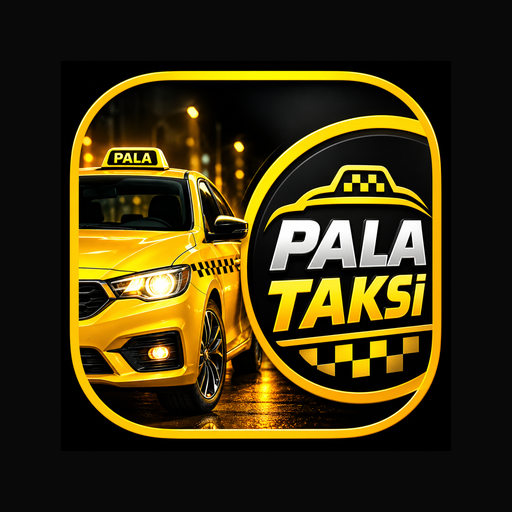
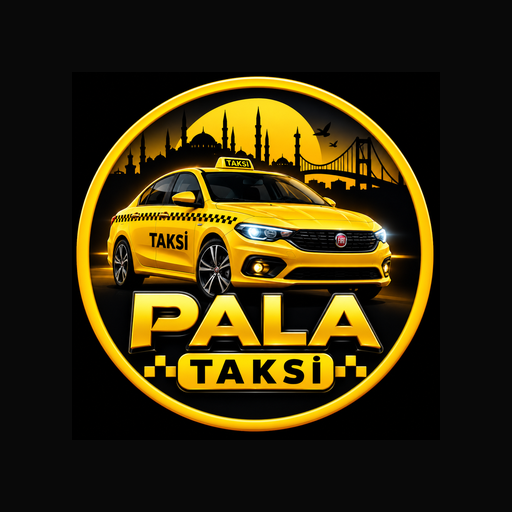
Add files via upload

diff --git a/index.html b/index.html
@@ -1,4 +1,4 @@
-<!doctype html><html lang="tr"><head><meta charset="utf-8"><meta name="viewport" content="width=device-width,initial-scale=1"><meta name="theme-color" content="#151515"><link rel="manifest" href="manifest.webmanifest"><title>PALA TAKSİ V5</title><style>
+<!doctype html><html lang="tr"><head><meta charset="utf-8"><meta name="viewport" content="width=device-width,initial-scale=1"><meta name="theme-color" content="#151515"><link rel="manifest" href="manifest.webmanifest"><title>PALA TAKSİ V4</title><style>
 :root{color-scheme:dark;--gold:#f5c842;--bg:#090b10;--card:#171b23;--muted:#a0a8b8;--line:#303744}
 *{box-sizing:border-box}body{font-family:system-ui,-apple-system,sans-serif;background:radial-gradient(circle at top right,#353019 0%,#0b0d13 40%,#090b10 100%);color:#f8f8f9;margin:0;padding:18px 15px 90px;max-width:700px;margin:auto;line-height:1.45}
 h1{color:var(--gold);font-size:25px;letter-spacing:.4px;margin:7px 0}h2{font-size:21px;margin:4px 0 16px}h3{font-size:16px}
@@ -32,7 +32,7 @@ nav button{box-shadow:0 4px 0 #9c7a10;letter-spacing:.1px}
 .monthly-table td:last-child{background:#28240f;color:#ffdb52}
 .monthly-table tbody tr:nth-child(even){background:#1d1d1d}
 .danger{background:#382021;color:#ffb0b0;border:1px solid #8b4545}
-.filter-panel{background:#1d211e;border:1px solid #625321;border-radius:16px;padding:14px;margin:14px 0}.filter-panel h3{margin-top:0}.filter-item{padding:10px 0;border-bottom:1px solid #42423a;display:flex;justify-content:space-between;gap:12px}.filter-item small{display:block;color:#aeb5bd}.filter-item b{white-space:nowrap;color:#f5c842}.filter-total{font-size:22px;font-weight:800;color:#f5c842;margin:10px 0}</style><style>.mainnav{grid-template-columns:repeat(3,minmax(0,1fr));gap:7px}.mainnav button{font-size:12px;padding:12px 5px}.quick{display:grid;grid-template-columns:1fr 1fr;gap:10px}.quick button:last-child{background:#28251b;color:#ffcf24;border:1px solid #806820;box-shadow:none}#home[hidden]{display:none}#lastTrips article{font-size:13px;line-height:1.5}.tile .value{font-size:clamp(16px,4.3vw,22px)}@media(max-width:380px){.mainnav{grid-template-columns:repeat(2,1fr)}} </style><style>#notes article,#homeReminders article{background:#1c1e23;border:1px solid #57471c;border-radius:12px;padding:12px;margin:8px 0}#notes article button{width:auto;margin:7px 5px 0 0;padding:9px;font-size:12px}#notes textarea{width:100%;box-sizing:border-box;background:#111;color:white;border:1px solid #555;border-radius:8px;padding:12px}.mainnav{grid-template-columns:repeat(3,minmax(0,1fr))}</style><style id="pin-style">body.pin-locked{overflow:hidden}#pinGate{position:fixed;inset:0;z-index:99999;background:radial-gradient(circle at top,#3d3210,#08090c 65%);display:flex;align-items:center;justify-content:center;padding:22px}#pinGate[hidden]{display:none}#pinPanel{width:min(100%,350px);text-align:center}#pinPanel h2{color:#f5c842;font-size:28px;margin:12px 0}#pinPanel p{color:#cbd0d9}#pinDots{display:flex;gap:14px;justify-content:center;margin:26px}#pinDots i{width:17px;height:17px;border:2px solid #f5c842;border-radius:50%}#pinDots i.filled{background:#f5c842}#pinPad{display:grid;grid-template-columns:repeat(3,1fr);gap:10px}#pinPad button{height:65px;font-size:24px;background:#23252b;color:#fff}#pinPad button:last-child{color:#f5c842}#pinError{min-height:25px;color:#ff9292!important}#pinChange{margin-top:18px;background:#2b2d34;color:#f5c842}</style><style>.brand img{object-fit:contain;background:#090b10;padding:4px;box-sizing:border-box}#school .school-check{display:flex;align-items:center;gap:12px;background:#1c1e23;border:1px solid #665322;border-radius:12px;padding:14px;margin:10px 0}#school .school-check input{width:23px;height:23px;flex:none}#school .school-check span{flex:1}#school .school-check b{color:#f5c842}#school .school-check input:disabled{opacity:.55}</style></head><body class="pin-locked"><div id="pinGate"><div id="pinPanel"><div style="font-size:64px">🚕</div><h2>PALA TAKSİ</h2><p id="pinPrompt">4 haneli giriş şifrenizi oluşturun</p><div id="pinDots"><i></i><i></i><i></i><i></i></div><p id="pinError"></p><div id="pinPad"></div><button id="pinChange" type="button" hidden>Şifreyi Değiştir</button></div></div><div class="brand"><img src="icon.png" alt="PALA TAKSİ logosu"><div><h1>PALA TAKSİ <small>V1</small></h1><small>Günlük Kasa ve Kazanç Takibi</small></div></div><nav class="mainnav"><button onclick="show('home')">⌂ Ana Sayfa</button><button onclick="show('trip')">+ Yeni Sefer</button><button onclick="show('cost')">− Gider</button><button onclick="show('history')">Geçmiş</button><button onclick="show('report')">Raporlar</button><button onclick="show('debt')">💰 Alacaklar</button><button onclick="show('notes')">📝 Notlar</button><button onclick="show('school')">🏫 Okul Servisi</button></nav><div id="home"><section class="hero"><small>Toplam Kasa Bakiyesi</small><div class="value" id="balance"></div><small>Önceki günlerden devreden dahil</small></section><div class="tiles"><div class="tile"><small>Bugünkü Gelir</small><div class="value" id="income"></div></div><div class="tile"><small>Bugünkü Gider</small><div class="value" id="expense"></div></div><div class="tile"><small>Bugünkü Net</small><div class="value" id="net"></div></div><div class="tile"><small>Bugünkü Sefer Sayısı</small><div class="value" id="count"></div></div></div><section><h2>Bu Ayın Özeti</h2><div class="tiles"><div class="tile"><small>Aylık Gelir</small><div class="value" id="monthIncome"></div></div><div class="tile"><small>Aylık Gider</small><div class="value" id="monthExpense"></div></div><div class="tile"><small>Aylık Net</small><div class="value" id="monthNet"></div></div><div class="tile"><small>Aylık Sefer</small><div class="value" id="monthCount"></div></div></div></section><div class="quick"><button onclick="show('debt')">💰 Alacaklar / Veresiye</button><button onclick="show('trip')">+ Yeni Sefer Ekle</button><button onclick="show('cost')">+ Yeni Gider Ekle</button></div><section><h2>🔔 Yaklaşan Hatırlatmalar</h2><div id="homeReminders"></div><button onclick="show('notes')">Notlara Git</button></section><section><h2>Son 5 Seferim</h2><div id="lastTrips"></div></section></div><p id="notice"></p><section id="trip" hidden><h2>Yeni İş</h2><label>Yolculuk tarihi ve saati<input id="tripDate" type="datetime-local" required></label><form id="tripForm"><label>Alış noktası<input id="from" required></label><label>Varış noktası<input id="to" required></label><label>Kazanılan tutar (TL)<input id="fare" type="number" min="0.01" step="0.01" required></label><button>İşi Kaydet</button></form></section><section id="cost" hidden><h2>Gider Ekle</h2><label>Gider tarihi ve saati<input id="costDate" type="datetime-local" required></label><form id="costForm"><label>Gider açıklaması<input id="description" required></label><label>Gider tutarı (TL)<input id="costAmount" type="number" min="0.01" step="0.01" required></label><button>Gideri Kaydet</button></form></section><section id="debt" hidden><h2>💰 Alacaklar / Veresiye</h2><div class="tiles"><div class="tile"><small>Toplam Kalan Alacak</small><div class="value" id="debtTotal"></div></div><div class="tile"><small>Toplam Tahsilat</small><div class="value" id="debtPaid"></div></div></div><h3>+ Yeni Veresiye</h3><form id="debtForm"><label>Müşteri adı<input id="debtName" required></label><label>Telefon (isteğe bağlı)<input id="debtPhone" type="tel"></label><label>Güzergâh / açıklama<input id="debtRoute" required></label><label>Borç tutarı (TL)<input id="debtAmount" type="number" min="0.01" step="0.01" required></label><label>İş tarihi ve saati<input id="debtDate" type="datetime-local" required></label><button>Veresiyeyi Kaydet</button></form><h3>Müşteriler ve Ödemeler</h3><div id="debtCustomers"></div><small>Veresiye yazıldığında kasaya eklenmez. Tahsilat yapıldığı tarihte gelir kaydedilir. Tahsilatları değiştirmek için önce ilgili tahsilatı iptal edin.</small></section><section id="notes" hidden><h2>📝 Notlar ve Hatırlatmalar</h2><p>Notlarınız bu telefonda saklanır. Uygulama açıkken zamanı gelen hatırlatmalar bildirim olarak gösterilebilir.</p><button type="button" onclick="enableNotifications()">🔔 Bildirim İzni Ver</button><form id="noteForm"><input type="hidden" id="noteEdit"><label>Not başlığı<input id="noteTitle" required maxlength="120" placeholder="Örn. Araç muayenesi"></label><label>Açıklama<textarea id="noteText" rows="3" placeholder="Notun ayrıntıları"></textarea></label><label>Hatırlatma tarihi ve saati (isteğe bağlı)<input id="noteDate" type="datetime-local"></label><button type="submit">Notu Kaydet</button><button type="button" onclick="resetNoteForm()">Temizle / Yeni Not</button></form><h3>Notlarım</h3><div id="notesList"></div></section><section id="school" hidden><h2>🏫 Okul Servisi Takibi</h2><p>Hafta içi sabah ve akşam ayrı işaretlenir. Her servis 850 TL'dir. Kazanç yalnızca Kasaya Aktar butonuyla taksi kasasına eklenir.</p><label>Servis tarihi<input id="schoolDate" type="date" onchange="renderSchool()"></label><label class="school-check"><input id="schoolMorning" type="checkbox" onchange="previewSchool()"><span>🌅 Sabah servisi</span><b>850 TL</b></label><label class="school-check"><input id="schoolEvening" type="checkbox" onchange="previewSchool()"><span>🌇 Akşam servisi</span><b>850 TL</b></label><div id="schoolDaySummary"></div><button type="button" id="schoolSave" onclick="saveSchoolDay()">💾 Servisi Kaydet</button><button type="button" onclick="toggleSchoolHistory()">📋 Geçmişi Gör</button><div id="schoolHistory" hidden></div><hr><label>Aktarılacak ay<input id="schoolMonth" type="month" onchange="renderSchool()"></label><div id="schoolMonthSummary"></div><button id="schoolTransfer" type="button" onclick="transferSchool()">💰 Okul Gelirini Kasaya Aktar</button><button id="schoolUndo" type="button" class="danger" onclick="undoSchoolTransfer()" hidden>Aktarımı İptal Et</button><small>Ay sonu aktarımı tek gelir kaydı oluşturur. Aktarılan ayın servisleri, aktarım iptal edilmeden değiştirilemez.</small></section><section id="history" hidden><h2>İşlem Geçmişi</h2><label>Güne göre filtrele (boşsa tüm kayıtlar)<input id="historyDate" type="date" onchange="render()"></label><div id="records"></div></section><section id="report" hidden><h2>Raporlar</h2><div class="controls"><label>Dönem<select id="reportPeriod" onchange="updateReportControls();render()"><option value="day">Günlük</option><option value="week">Haftalık</option><option value="month" selected>Aylık</option><option value="year">Yıllık</option></select></label><label>Rapor tarihi<input type="date" id="reportDate" onchange="render()"></label></div><section class="filter-panel"><h3>🔎 Gelir / Gider Filtreleri</h3><div class="controls"><label>İşlem türü<select id="detailType" onchange="render()"><option value="all">Tüm işlemler</option><option value="income">Gelirler</option><option value="expense">Giderler</option></select></label><label>Gider grubu<select id="detailGroup" onchange="render()"><option value="all">Tüm giderler</option><option value="fuel">⛽ Yakıt (mazot / motorin)</option><option value="other">Diğer giderler</option></select></label></div><label>Açıklama veya güzergâh ara<input id="detailSearch" placeholder="Örn. Kaynaşlı, mazot, bakım" oninput="render()"></label><div id="detailResults"></div></section><div id="reports"></div><h3>Veri Yönetimi</h3><button class="danger" onclick="clearRecords()">Tüm Deneme Kayıtlarını Sil</button><h3>Veri Yedeği</h3><button onclick="backup()">Yedek İndir (JSON)</button><p><label>Yedekten geri yükle<input type="file" id="restore" accept="application/json,.json"></label></p><small>Geri yükleme mevcut kayıtları değiştirir. Yedek dosyanızı güvenli yerde saklayın.</small></section><script>
+.filter-panel{background:#1d211e;border:1px solid #625321;border-radius:16px;padding:14px;margin:14px 0}.filter-panel h3{margin-top:0}.filter-item{padding:10px 0;border-bottom:1px solid #42423a;display:flex;justify-content:space-between;gap:12px}.filter-item small{display:block;color:#aeb5bd}.filter-item b{white-space:nowrap;color:#f5c842}.filter-total{font-size:22px;font-weight:800;color:#f5c842;margin:10px 0}</style><style>.mainnav{grid-template-columns:repeat(3,minmax(0,1fr));gap:7px}.mainnav button{font-size:12px;padding:12px 5px}.quick{display:grid;grid-template-columns:1fr 1fr;gap:10px}.quick button:last-child{background:#28251b;color:#ffcf24;border:1px solid #806820;box-shadow:none}#home[hidden]{display:none}#lastTrips article{font-size:13px;line-height:1.5}.tile .value{font-size:clamp(16px,4.3vw,22px)}@media(max-width:380px){.mainnav{grid-template-columns:repeat(2,1fr)}} </style><style>#notes article,#homeReminders article{background:#1c1e23;border:1px solid #57471c;border-radius:12px;padding:12px;margin:8px 0}#notes article button{width:auto;margin:7px 5px 0 0;padding:9px;font-size:12px}#notes textarea{width:100%;box-sizing:border-box;background:#111;color:white;border:1px solid #555;border-radius:8px;padding:12px}.mainnav{grid-template-columns:repeat(3,minmax(0,1fr))}</style><style id="pin-style">body.pin-locked{overflow:hidden}#pinGate{position:fixed;inset:0;z-index:99999;background:radial-gradient(circle at top,#3d3210,#08090c 65%);display:flex;align-items:center;justify-content:center;padding:22px}#pinGate[hidden]{display:none}#pinPanel{width:min(100%,350px);text-align:center}#pinPanel h2{color:#f5c842;font-size:28px;margin:12px 0}#pinPanel p{color:#cbd0d9}#pinDots{display:flex;gap:14px;justify-content:center;margin:26px}#pinDots i{width:17px;height:17px;border:2px solid #f5c842;border-radius:50%}#pinDots i.filled{background:#f5c842}#pinPad{display:grid;grid-template-columns:repeat(3,1fr);gap:10px}#pinPad button{height:65px;font-size:24px;background:#23252b;color:#fff}#pinPad button:last-child{color:#f5c842}#pinError{min-height:25px;color:#ff9292!important}#pinChange{margin-top:18px;background:#2b2d34;color:#f5c842}</style><style>.brand img{object-fit:contain;background:#090b10;padding:4px;box-sizing:border-box}#school .school-check{display:flex;align-items:center;gap:12px;background:#1c1e23;border:1px solid #665322;border-radius:12px;padding:14px;margin:10px 0}#school .school-check input{width:23px;height:23px;flex:none}#school .school-check span{flex:1}#school .school-check b{color:#f5c842}#school .school-check input:disabled{opacity:.55}</style></head><body class="pin-locked"><div id="pinGate"><div id="pinPanel"><div style="font-size:64px">🚕</div><h2>PALA TAKSİ</h2><p id="pinPrompt">4 haneli giriş şifrenizi oluşturun</p><div id="pinDots"><i></i><i></i><i></i><i></i></div><p id="pinError"></p><div id="pinPad"></div><button id="pinChange" type="button" hidden>Şifreyi Değiştir</button></div></div><div class="brand"><img src="icon.png?v=4" alt="PALA TAKSİ logosu"><div><h1>PALA TAKSİ <small>V4</small></h1><small>Günlük Kasa ve Kazanç Takibi</small></div></div><nav class="mainnav"><button onclick="show('home')">⌂ Ana Sayfa</button><button onclick="show('trip')">+ Yeni Sefer</button><button onclick="show('cost')">− Gider</button><button onclick="show('history')">Geçmiş</button><button onclick="show('report')">Raporlar</button><button onclick="show('debt')">💰 Alacaklar</button><button onclick="show('notes')">📝 Notlar</button><button onclick="show('school')">🏫 Okul Servisi</button></nav><div id="home"><section class="hero"><small>Toplam Kasa Bakiyesi</small><div class="value" id="balance"></div><small>Önceki günlerden devreden dahil</small></section><div class="tiles"><div class="tile"><small>Bugünkü Gelir</small><div class="value" id="income"></div></div><div class="tile"><small>Bugünkü Gider</small><div class="value" id="expense"></div></div><div class="tile"><small>Bugünkü Net</small><div class="value" id="net"></div></div><div class="tile"><small>Bugünkü Sefer Sayısı</small><div class="value" id="count"></div></div></div><section><h2>Bu Ayın Özeti</h2><div class="tiles"><div class="tile"><small>Aylık Gelir</small><div class="value" id="monthIncome"></div></div><div class="tile"><small>Aylık Gider</small><div class="value" id="monthExpense"></div></div><div class="tile"><small>Aylık Net</small><div class="value" id="monthNet"></div></div><div class="tile"><small>Aylık Sefer</small><div class="value" id="monthCount"></div></div></div></section><div class="quick"><button onclick="show('debt')">💰 Alacaklar / Veresiye</button><button onclick="show('trip')">+ Yeni Sefer Ekle</button><button onclick="show('cost')">+ Yeni Gider Ekle</button></div><section><h2>🔔 Yaklaşan Hatırlatmalar</h2><div id="homeReminders"></div><button onclick="show('notes')">Notlara Git</button></section><section><h2>Son 5 Seferim</h2><div id="lastTrips"></div></section></div><p id="notice"></p><section id="trip" hidden><h2>Yeni İş</h2><label>Yolculuk tarihi ve saati<input id="tripDate" type="datetime-local" required></label><form id="tripForm"><label>Alış noktası<input id="from" required></label><label>Varış noktası<input id="to" required></label><label>Kazanılan tutar (TL)<input id="fare" type="number" min="0.01" step="0.01" required></label><button>İşi Kaydet</button></form></section><section id="cost" hidden><h2>Gider Ekle</h2><label>Gider tarihi ve saati<input id="costDate" type="datetime-local" required></label><form id="costForm"><label>Gider açıklaması<input id="description" required></label><label>Gider tutarı (TL)<input id="costAmount" type="number" min="0.01" step="0.01" required></label><button>Gideri Kaydet</button></form></section><section id="debt" hidden><h2>💰 Alacaklar / Veresiye</h2><div class="tiles"><div class="tile"><small>Toplam Kalan Alacak</small><div class="value" id="debtTotal"></div></div><div class="tile"><small>Toplam Tahsilat</small><div class="value" id="debtPaid"></div></div></div><h3>+ Yeni Veresiye</h3><form id="debtForm"><label>Müşteri adı<input id="debtName" required></label><label>Telefon (isteğe bağlı)<input id="debtPhone" type="tel"></label><label>Güzergâh / açıklama<input id="debtRoute" required></label><label>Borç tutarı (TL)<input id="debtAmount" type="number" min="0.01" step="0.01" required></label><label>İş tarihi ve saati<input id="debtDate" type="datetime-local" required></label><button>Veresiyeyi Kaydet</button></form><h3>Müşteriler ve Ödemeler</h3><div id="debtCustomers"></div><small>Veresiye yazıldığında kasaya eklenmez. Tahsilat yapıldığı tarihte gelir kaydedilir. Tahsilatları değiştirmek için önce ilgili tahsilatı iptal edin.</small></section><section id="notes" hidden><h2>📝 Notlar ve Hatırlatmalar</h2><p>Notlarınız bu telefonda saklanır. Uygulama açıkken zamanı gelen hatırlatmalar bildirim olarak gösterilebilir.</p><button type="button" onclick="enableNotifications()">🔔 Bildirim İzni Ver</button><form id="noteForm"><input type="hidden" id="noteEdit"><label>Not başlığı<input id="noteTitle" required maxlength="120" placeholder="Örn. Araç muayenesi"></label><label>Açıklama<textarea id="noteText" rows="3" placeholder="Notun ayrıntıları"></textarea></label><label>Hatırlatma tarihi ve saati (isteğe bağlı)<input id="noteDate" type="datetime-local"></label><button type="submit">Notu Kaydet</button><button type="button" onclick="resetNoteForm()">Temizle / Yeni Not</button></form><h3>Notlarım</h3><div id="notesList"></div></section><section id="school" hidden><h2>🏫 Okul Servisi Takibi</h2><p>Hafta içi sabah ve akşam ayrı işaretlenir. Her servis 850 TL'dir. Kazanç yalnızca Kasaya Aktar butonuyla taksi kasasına eklenir.</p><label>Servis tarihi<input id="schoolDate" type="date" onchange="renderSchool()"></label><label class="school-check"><input id="schoolMorning" type="checkbox" onchange="previewSchool()"><span>🌅 Sabah servisi</span><b>850 TL</b></label><label class="school-check"><input id="schoolEvening" type="checkbox" onchange="previewSchool()"><span>🌇 Akşam servisi</span><b>850 TL</b></label><div id="schoolDaySummary"></div><button type="button" id="schoolSave" onclick="saveSchoolDay()">💾 Servisi Kaydet</button><button type="button" onclick="toggleSchoolHistory()">📋 Geçmişi Gör</button><div id="schoolHistory" hidden></div><hr><label>Aktarılacak ay<input id="schoolMonth" type="month" onchange="renderSchool()"></label><div id="schoolMonthSummary"></div><button id="schoolTransfer" type="button" onclick="transferSchool()">💰 Okul Gelirini Kasaya Aktar</button><button id="schoolUndo" type="button" class="danger" onclick="undoSchoolTransfer()" hidden>Aktarımı İptal Et</button><small>Ay sonu aktarımı tek gelir kaydı oluşturur. Aktarılan ayın servisleri, aktarım iptal edilmeden değiştirilemez.</small></section><section id="history" hidden><h2>İşlem Geçmişi</h2><label>Güne göre filtrele (boşsa tüm kayıtlar)<input id="historyDate" type="date" onchange="render()"></label><div id="records"></div></section><section id="report" hidden><h2>Raporlar</h2><div class="controls"><label>Dönem<select id="reportPeriod" onchange="updateReportControls();render()"><option value="day">Günlük</option><option value="week">Haftalık</option><option value="month" selected>Aylık</option><option value="year">Yıllık</option></select></label><label>Rapor tarihi<input type="date" id="reportDate" onchange="render()"></label></div><section class="filter-panel"><h3>🔎 Gelir / Gider Filtreleri</h3><div class="controls"><label>İşlem türü<select id="detailType" onchange="render()"><option value="all">Tüm işlemler</option><option value="income">Gelirler</option><option value="expense">Giderler</option></select></label><label>Gider grubu<select id="detailGroup" onchange="render()"><option value="all">Tüm giderler</option><option value="fuel">⛽ Yakıt (mazot / motorin)</option><option value="other">Diğer giderler</option></select></label></div><label>Açıklama veya güzergâh ara<input id="detailSearch" placeholder="Örn. Kaynaşlı, mazot, bakım" oninput="render()"></label><div id="detailResults"></div></section><div id="reports"></div><h3>Veri Yönetimi</h3><button class="danger" onclick="clearRecords()">Tüm Deneme Kayıtlarını Sil</button><h3>Veri Yedeği</h3><button onclick="backup()">Yedek İndir (JSON)</button><p><label>Yedekten geri yükle<input type="file" id="restore" accept="application/json,.json"></label></p><small>Geri yükleme mevcut kayıtları değiştirir. Yedek dosyanızı güvenli yerde saklayın.</small></section><script>
 const KEY='pala-taksi-v1-records', DEBT_KEY='pala-taksi-v1-alacaklar';let debts=[];try{debts=JSON.parse(localStorage.getItem(DEBT_KEY))||[]}catch{}if(!Array.isArray(debts))debts=[];let data;try{data=JSON.parse(localStorage.getItem(KEY))||[]}catch{data=[]}if(!Array.isArray(data))data=[];
 const SCHOOL_KEY='pala-taksi-v2-school';let school={};try{school=JSON.parse(localStorage.getItem(SCHOOL_KEY))||{}}catch{}if(!school||typeof school!=='object'||Array.isArray(school))school={};
 const $=id=>document.getElementById(id),money=n=>new Intl.NumberFormat('tr-TR',{style:'currency',currency:'TRY'}).format(n),pad=n=>String(n).padStart(2,'0');

diff --git a/sw.js b/sw.js
@@ -1,2 +1,2 @@
-const CACHE='pala-taksi-v2-school-1';const ASSETS=['./','./index.html','./icon.png','./icon-192.png','./manifest.webmanifest'];self.addEventListener('install',e=>{e.waitUntil(caches.open(CACHE).then(c=>c.addAll(ASSETS)));self.skipWaiting()});self.addEventListener('activate',e=>{e.waitUntil(caches.keys().then(keys=>Promise.all(keys.filter(k=>k!==CACHE).map(k=>caches.delete(k)))));self.clients.claim()});self.addEventListener('fetch',e=>{if(e.request.method!=='GET')return;e.respondWith(fetch(e.request).then(res=>{if(res.ok){const copy=res.clone();caches.open(CACHE).then(c=>c.put(e.request,copy))}return res}).catch(()=>caches.match(e.request)))})
+const CACHE='pala-taksi-v4-logo-1';const ASSETS=['./','./index.html','./icon.png','./icon-192.png','./manifest.webmanifest'];self.addEventListener('install',e=>{e.waitUntil(caches.open(CACHE).then(c=>c.addAll(ASSETS)));self.skipWaiting()});self.addEventListener('activate',e=>{e.waitUntil(caches.keys().then(keys=>Promise.all(keys.filter(k=>k!==CACHE).map(k=>caches.delete(k)))));self.clients.claim()});self.addEventListener('fetch',e=>{if(e.request.method!=='GET')return;e.respondWith(fetch(e.request).then(res=>{if(res.ok){const copy=res.clone();caches.open(CACHE).then(c=>c.put(e.request,copy))}return res}).catch(()=>caches.match(e.request)))})
 self.addEventListener('notificationclick',e=>{e.notification.close();e.waitUntil(clients.openWindow('./index.html'))});
